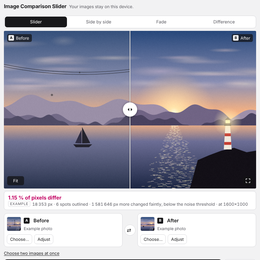
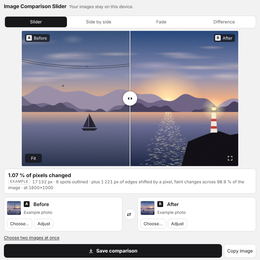
Image Comparison Slider: count local changes, forgive one-pixel edge shifts
After the third critic round and the testers' second pass:
- The headline always counts local changes - pixels beyond the noise threshold that
  neither an overall tone change nor an edge moved by one pixel (resampling,
  anti-aliasing) explains - and names the rest in one clause, the same way for every
  pair. pixelmatch's own count is still computed and tested.
- Tone-only and faint changes are tinted more softly in the map, so the outlined spots
  stand out.
- Zoom and pan are kept when switching between Slider, Fade and Difference.
- On phones, the two image cards shrink to one line once both are filled, so Save sits
  under the result; Adjust moves behind View options there.
- The size note says that scaling alone can make small text differ.

Claude-Session: https://claude.ai/code/session_01PtGPtWkNs11ZVetwCzWXpi

diff --git a/tools/image_comparison_slider.html b/tools/image_comparison_slider.html
@@ -75,7 +75,6 @@ main{flex:1;display:grid;grid-template-columns:minmax(0,1fr) 316px;gap:14px;padd
 .verdict{min-height:52px;display:flex;align-items:center;gap:12px;padding:8px 12px;background:var(--panel);border:1px solid var(--line);border-radius:8px}
 .verdict .vh{font-weight:650;font-size:16px}
 .verdict .vs{color:var(--dim);font-size:13px}
-.verdict[data-kind="diff"] .vh::before{content:"";display:inline-block;width:10px;height:10px;border-radius:2px;background:var(--mark);margin-right:8px;vertical-align:1px}
 .verdict[data-kind="same"] .vh::before{content:"✓";margin-right:7px;font-weight:700}
 .verdict .vtext{flex:1;min-width:0}
 .verdict .ex{font-size:11px;text-transform:uppercase;letter-spacing:.06em;color:var(--dim);border:1px solid var(--line);border-radius:4px;padding:1px 5px;margin-right:6px;vertical-align:2px}
@@ -98,7 +97,7 @@ aside{display:flex;flex-direction:column;gap:10px;min-width:0}
 .err{color:var(--bad);font-size:13px;margin:0}
 .slotbtns{display:flex;gap:6px}
 .slotbtns .ibtn{height:30px;font-size:13px}
-.swaprow{display:flex;justify-content:center;margin:-6px 0}
+.swaprow{display:flex;justify-content:center;margin:-3px 0}
 .swaprow .ibtn{height:28px;font-size:13px;border-radius:14px}
 .primary{background:var(--btn);color:var(--btn-ink);border:0;border-radius:9px;height:42px;font-weight:650;font-size:15px;cursor:pointer;display:flex;align-items:center;justify-content:center;gap:8px;width:100%}
 .primary:disabled{opacity:.45;cursor:default}
@@ -153,6 +152,11 @@ kbd{font-family:var(--mono);font-size:11.5px;background:var(--panel2);border:1px
   .swaprow .ibtn::before{content:"⇄";font-size:16px}
   .err{font-size:12.5px}
   .toast{top:10px;bottom:auto;max-width:calc(100vw - 24px)}
+  .paired .slotbtns,.paired .fname.num{display:none}
+  .paired .slots .card{padding:6px 8px}
+  .paired .thumb{width:36px;height:36px}
+  .paired .swaprow .ibtn{width:30px;height:30px}
+  .paired.showbtns .slotbtns{display:flex}
   .pickhint-own{display:none}
 }
 @media (prefers-reduced-motion:reduce){*{transition:none!important;animation:none!important}}
@@ -265,6 +269,7 @@ kbd{font-family:var(--mono);font-size:11.5px;background:var(--panel2);border:1px
         <label class="chk"><input type="checkbox" id="optOutline"> Outline changed areas on the images</label>
         <label class="chk"><input type="checkbox" id="optLabels"> Show labels (also in saved images)</label>
         <label class="chk"><input type="checkbox" id="optGrid"> Rule-of-thirds grid</label>
+        <button class="linkbtn" id="showAdj" style="align-self:flex-start">Adjust brightness, contrast, colour of each image…</button>
         <label class="chk"><input type="checkbox" id="optKeep"> Keep my images after reload <span class="note">(in this browser only)</span></label>
         <div class="keys" aria-label="Keyboard shortcuts">
           <kbd>← →</kbd><span>move divider (Shift: 10×)</span>
@@ -316,7 +321,7 @@ kbd{font-family:var(--mono);font-size:11.5px;background:var(--panel2);border:1px
     const sz = o => `${o.w}×${o.h}`;
     if (align === 'actual') return `Sizes differ: both shown at actual pixels from the top-left (A ${sz(A)}, B ${sz(B)}).`;
     if (align === 'stretch' && !C.sameAspect(A.w, A.h, B.w, B.h)) return `Sizes differ: B (${sz(B)}) is stretched to A’s ${sz(A)}.`;
-    if (C.sameAspect(A.w, A.h, B.w, B.h)) return `Sizes differ: B (${sz(B)}) is scaled to A’s ${sz(A)}.`;
+    if (C.sameAspect(A.w, A.h, B.w, B.h)) return `Sizes differ: B (${sz(B)}) is scaled to A’s ${sz(A)}, so small text and fine lines can differ a little from the scaling alone.`;
     return `Shapes differ: B (${sz(B)}) is fitted inside A’s ${sz(A)}, centred.`;
   };
 
@@ -404,13 +409,27 @@ kbd{font-family:var(--mono);font-size:11.5px;background:var(--panel2);border:1px
     const lut = count >= 0.25 * total && lim > 0 ? C.toneCurve(hist) : null;
     // pass 2: what is local, the picture, the outlines
     const grid = new Uint8Array(gw * gh), faintN = new Uint32Array(gw * gh), cellN = new Uint32Array(gw * gh);
-    let local = 0, x0 = w, y0 = h, x1 = -1, y1 = -1;
+    let local = 0, edge = 0, x0 = w, y0 = h, x1 = -1, y1 = -1;
+    // A as the tone curve predicts it, at byte k
+    const ar = k => lut ? lut[a[k]] : a[k], ag = k => lut ? lut[256 + a[k + 1]] : a[k + 1], ab = k => lut ? lut[512 + a[k + 2]] : a[k + 2];
+    // does some pixel of the other image within one pixel of (x, y) match this colour? (resampling and anti-aliasing move edges by a pixel)
+    const near = (x, y, r, g, bl, al, inA) => {
+      for (let dy = -1; dy <= 1; dy++) for (let dx = -1; dx <= 1; dx++) {
+        const X = x + dx, Y = y + dy; if (X < 0 || Y < 0 || X >= w || Y >= h) continue;
+        const j = (Y * w + X) * 4;
+        const d = inA ? C.colorDelta(r, g, bl, al, ar(j), ag(j), ab(j), a[j + 3]) : C.colorDelta(r, g, bl, al, b[j], b[j + 1], b[j + 2], b[j + 3]);
+        if (d <= lim) return true;
+      }
+      return false;
+    };
     for (let y = 0; y < h; y++) {
       const gy = (y / cell | 0) * gw;
       for (let x = 0, k = y * w * 4; x < w; x++, k += 4) {
         const d = C.colorDelta(a[k], a[k + 1], a[k + 2], a[k + 3], b[k], b[k + 1], b[k + 2], b[k + 3]);
         const dl = lut && d > 0 ? C.colorDelta(lut[a[k]], lut[256 + a[k + 1]], lut[512 + a[k + 2]], a[k + 3], b[k], b[k + 1], b[k + 2], b[k + 3]) : d;
-        const hit = (lut ? Math.min(d, dl) : d) > lim, c = gy + (x / cell | 0);
+        let hit = (lut ? Math.min(d, dl) : d) > lim;
+        const c = gy + (x / cell | 0);
+        if (hit && lim > 0 && near(x, y, ar(k), ag(k), ab(k), a[k + 3], false) && near(x, y, b[k], b[k + 1], b[k + 2], b[k + 3], true)) { hit = false; edge++; }
         cellN[c]++;
         if (hit) { local++; grid[c] = 1; if (x < x0) x0 = x; if (x > x1) x1 = x; if (y < y0) y0 = y; if (y > y1) y1 = y; }
         else if (d > 0) faintN[c]++;
@@ -422,7 +441,7 @@ kbd{font-family:var(--mono);font-size:11.5px;background:var(--panel2);border:1px
             const al = a[k + 3] / 255, lum = blend(a[k] * 0.299 + a[k + 1] * 0.587 + a[k + 2] * 0.114, al);
             const g = 24 + lum * 0.22;
             if (d > 0) {
-              const m = 0.45 + 0.4 * Math.min(1, lim ? Math.sqrt(Math.min(d, lim) / lim) : 1);
+              const m = 0.22 + 0.33 * Math.min(1, lim ? Math.sqrt(Math.min(d, lim) / lim) : 1);
               pic[k] = g + (128 - g) * m; pic[k + 1] = g + (72 - g) * m; pic[k + 2] = g + (168 - g) * m;
             } else pic[k] = pic[k + 1] = pic[k + 2] = g;
           }
@@ -440,7 +459,7 @@ kbd{font-family:var(--mono);font-size:11.5px;background:var(--panel2);border:1px
       if (n) for (const ar of C.areas(fg, gw, gh, cell, w, h)) if (ar.cells >= 2 && !ar.broad) { ar.faint = true; areas.push(ar); }
     }
     return {
-      w, h, total, count, any, maxDelta: max, threshold: t, local, tone: !!lut && local <= 0.5 * count,
+      w, h, total, count, any, maxDelta: max, threshold: t, local, edge, tone: !!lut && local + edge <= 0.5 * count,
       box: local ? {x: x0, y: y0, w: x1 - x0 + 1, h: y1 - y0 + 1} : null,
       areas, picture: pic,
     };
@@ -511,27 +530,35 @@ kbd{font-family:var(--mono);font-size:11.5px;background:var(--panel2);border:1px
     return (s === '100.0' ? '99.9' : s) + ' %';
   };
   C.group = n => String(Math.round(n)).replace(/\B(?=(\d{3})+(?!\d))/g, ' ');
+  // The headline always counts local changes: pixels that differ beyond the noise threshold and that neither an overall
+  // tone change nor a one-pixel shift of an edge explains. What else changed follows as one clause.
   C.verdict = function (r, scaledFrom) {
     const how = r.threshold === 0 ? 'every change counted' : r.threshold <= 0.1 ? 'changes as faint as JPEG noise ignored' : 'only clear changes counted';
     const pct = scaledFrom ? Math.round(r.w / scaledFrom.w * 100) : 100;
     const at = scaledFrom ? ` · measured at ${pct} % scale (${r.w}×${r.h} of ${scaledFrom.w}×${scaledFrom.h})` : ` · at ${r.w}×${r.h}`;
-    const faintAreas = r.areas.filter(o => o.faint).length;
-    const faintNote = faintAreas ? ` · ${faintAreas === 1 ? '1 area' : faintAreas + ' areas'} changed slightly but evenly (dashed)` : '';
     if (!r.any) return scaledFrom
       ? {kind: 'same', head: 'No difference found', sub: `Measured at ${pct} % scale (${r.w}×${r.h} of ${scaledFrom.w}×${scaledFrom.h}) — a change of a pixel or two might not show`}
       : {kind: 'same', head: 'Identical', sub: 'Pixel for pixel, no difference at all' + at};
-    if (!r.count) return {kind: 'near', head: 'Only faint differences',
-      sub: `${C.percent(r.any, r.total)} of pixels (${C.group(r.any)} px) changed slightly, below the noise threshold` + faintNote + at};
-    const solid = r.areas.filter(o => !o.faint);
-    const broad = solid.some(o => o.broad), n = solid.filter(o => !o.broad).length;
+    const local = r.local == null ? r.count : r.local, edge = r.edge || 0;
+    const faintAreas = r.areas.filter(o => o.faint).length;
+    const solid = r.areas.filter(o => !o.faint), broad = solid.some(o => o.broad), n = solid.filter(o => !o.broad).length;
     const spots = n === 0 ? '' : n === 1 ? '1 spot outlined' : n <= 12 ? `${n} spots outlined` : `${n} separate spots`;
     const faint = r.any - r.count;
-    const tail = (faintAreas ? faintNote.slice(3) : faint && r.threshold && !r.tone ? `${C.group(faint)} px more changed faintly` : how) + at;
-    if (r.tone) return {kind: 'diff', head: `${C.percent(r.count, r.total)} of pixels differ — mostly an overall tone change`,
-      sub: (n ? `beyond it, ${spots}` : broad ? 'beyond it, changes across much of the image' : 'no local edits beyond it') + ' · ' + tail};
+    const also = [];
+    if (r.tone) also.push(`an overall tone change across ${C.percent(r.count, r.total)} of the image`);
+    if (faintAreas) also.push(`${faintAreas === 1 ? '1 area' : faintAreas + ' areas'} changed slightly but evenly (dashed)`);
+    if (edge && !r.tone) also.push(`${C.group(edge)} px of edges shifted by a pixel`);
+    if (faint > 0.5 * r.total && r.threshold) also.push(`faint changes across ${C.percent(faint, r.total)} of the image`);
+    else if (faint && r.threshold && !also.length) also.push(`${C.group(faint)} px changed faintly`);
+    if (!local) {
+      if (r.tone) return {kind: 'near', head: 'Only an overall tone change', sub: `${C.percent(r.count, r.total)} of pixels shifted together (brightness or colour), no local edits` + at};
+      if (faintAreas) return {kind: 'near', head: 'Only slight changes', sub: also.join(' · ') + at};
+      if (r.count) return {kind: 'near', head: 'Only edges differ', sub: `${C.group(edge)} px along edges are off by a pixel, as resizing or re-rendering leaves them — no change of content` + at};
+      return {kind: 'near', head: 'Only faint differences', sub: `${C.percent(r.any, r.total)} of pixels (${C.group(r.any)} px) changed slightly, below the noise threshold` + at};
+    }
     const where = broad ? (spots ? `most of the image + ${spots}` : 'most of the image') : spots;
-    return {kind: 'diff', head: `${C.percent(r.count, r.total)} of pixels differ`,
-      sub: `${C.group(r.count)} px · ${where} · ` + tail};
+    return {kind: 'diff', head: `${C.percent(local, r.total)} of pixels changed`,
+      sub: `${C.group(local)} px · ${where}` + (also.length ? ' · plus ' + also.join(', ') : ' · ' + how) + at};
   };
 
   // Longest side and pixel cap for the measurement (memory: two RGBA copies plus a picture).
@@ -1122,6 +1149,7 @@ function refreshAll(changed) {
   $('swapBtn').disabled = !(slots.a || slots.b);
   $('saveBtn').disabled = $('copyBtn').disabled = !both;
   $('pickHint').classList.toggle('pickhint-own', both && !slots.a.example);
+  $('app').classList.toggle('paired', both && !slots.a.example);
   if (!navigator.clipboard || !window.ClipboardItem) $('copyBtn').hidden = true;
   syncControls();
   scheduleDiff(); renderVerdict();
@@ -1149,8 +1177,10 @@ function syncControls() {
 }
 function setMode(m) {
   if (!C.MODES.includes(m) || m === S.mode) return;
+  const sideChange = (m === 'side') !== (S.mode === 'side');
   S.mode = m; saveSettings(); syncControls();
-  fitStageHeight(); resetView(); renderVerdict(); draw();
+  fitStageHeight(); if (sideChange || !v) resetView(); else { const pp = panes()[0]; v = C.clampView(v, lay.w, lay.h, pp.w, pp.h); } // keep the zoom across modes
+  renderVerdict(); draw();
   announce({split: 'Slider', side: 'Side by side', fade: 'Fade', diff: 'Difference map'}[m]);
 }
 // motion: when a new image lands, the divider sweeps in from the side that changed, so the eye sees what is new
@@ -1457,6 +1487,7 @@ $('saveMenu').addEventListener('keydown', e => {
   if (e.key === 'Escape') { closeMenu(); $('saveBtn').focus(); }
 });
 $('copyBtn').onclick = copy;
+$('showAdj').onclick = () => { $('app').classList.add('showbtns'); for (const s of ['a', 'b']) if (slots[s]) { $('adj' + s.toUpperCase()).hidden = false; document.querySelector(`[data-adjust="${s}"]`).setAttribute('aria-expanded', 'true'); } $('cardA').scrollIntoView({block: 'nearest', behavior: 'smooth'}); };
 $('whereBtn').onclick = () => setMode('diff');
 $('toastUndo').onclick = undo;
 $('cancelBtn').onclick = () => { cancelDiff(); diffKey = ''; renderVerdict('Measuring cancelled. Change a setting or image to measure again.'); };

diff --git a/test/README.md b/test/README.md
@@ -2184,7 +2184,9 @@ Comparison Slider), whose promise is that the two images line up the way the pag
 with `npm i --no-save pixelmatch@5.3.0` - the count of differing pixels equal to pixelmatch's own on random, noisy, graded and
 half-transparent pairs at all three sensitivities; images whose answer is known (one pixel, an exact block box, noise below the
 threshold, transparent pixels hiding different colours, 1x1, 5000x1); outlined spots that split, join and leave a whole-image
-change unboxed; percentages that never say 0 % or 100 % for a partial change; fit, stretch and actual-pixel layouts; zoom that
+change unboxed; a brightness lift read as a tone change with exactly the three retouched spots outlined beyond it, a different
+picture never called a tone change, a hard edge moved by one pixel not called a change while one stray pixel is, and an evenly
+recoloured button below the threshold outlined as a faint area; percentages that never say 0 % or 100 % for a partial change; fit, stretch and actual-pixel layouts; zoom that
 keeps the point under the finger and never loses the image; ARIA slider keys; saved-image sizes and the 8192 px cap; file
 names; the file types it explains; saved settings and `?mode=fade&dir=v&pos=30` links. Run it after touching the core.
 
